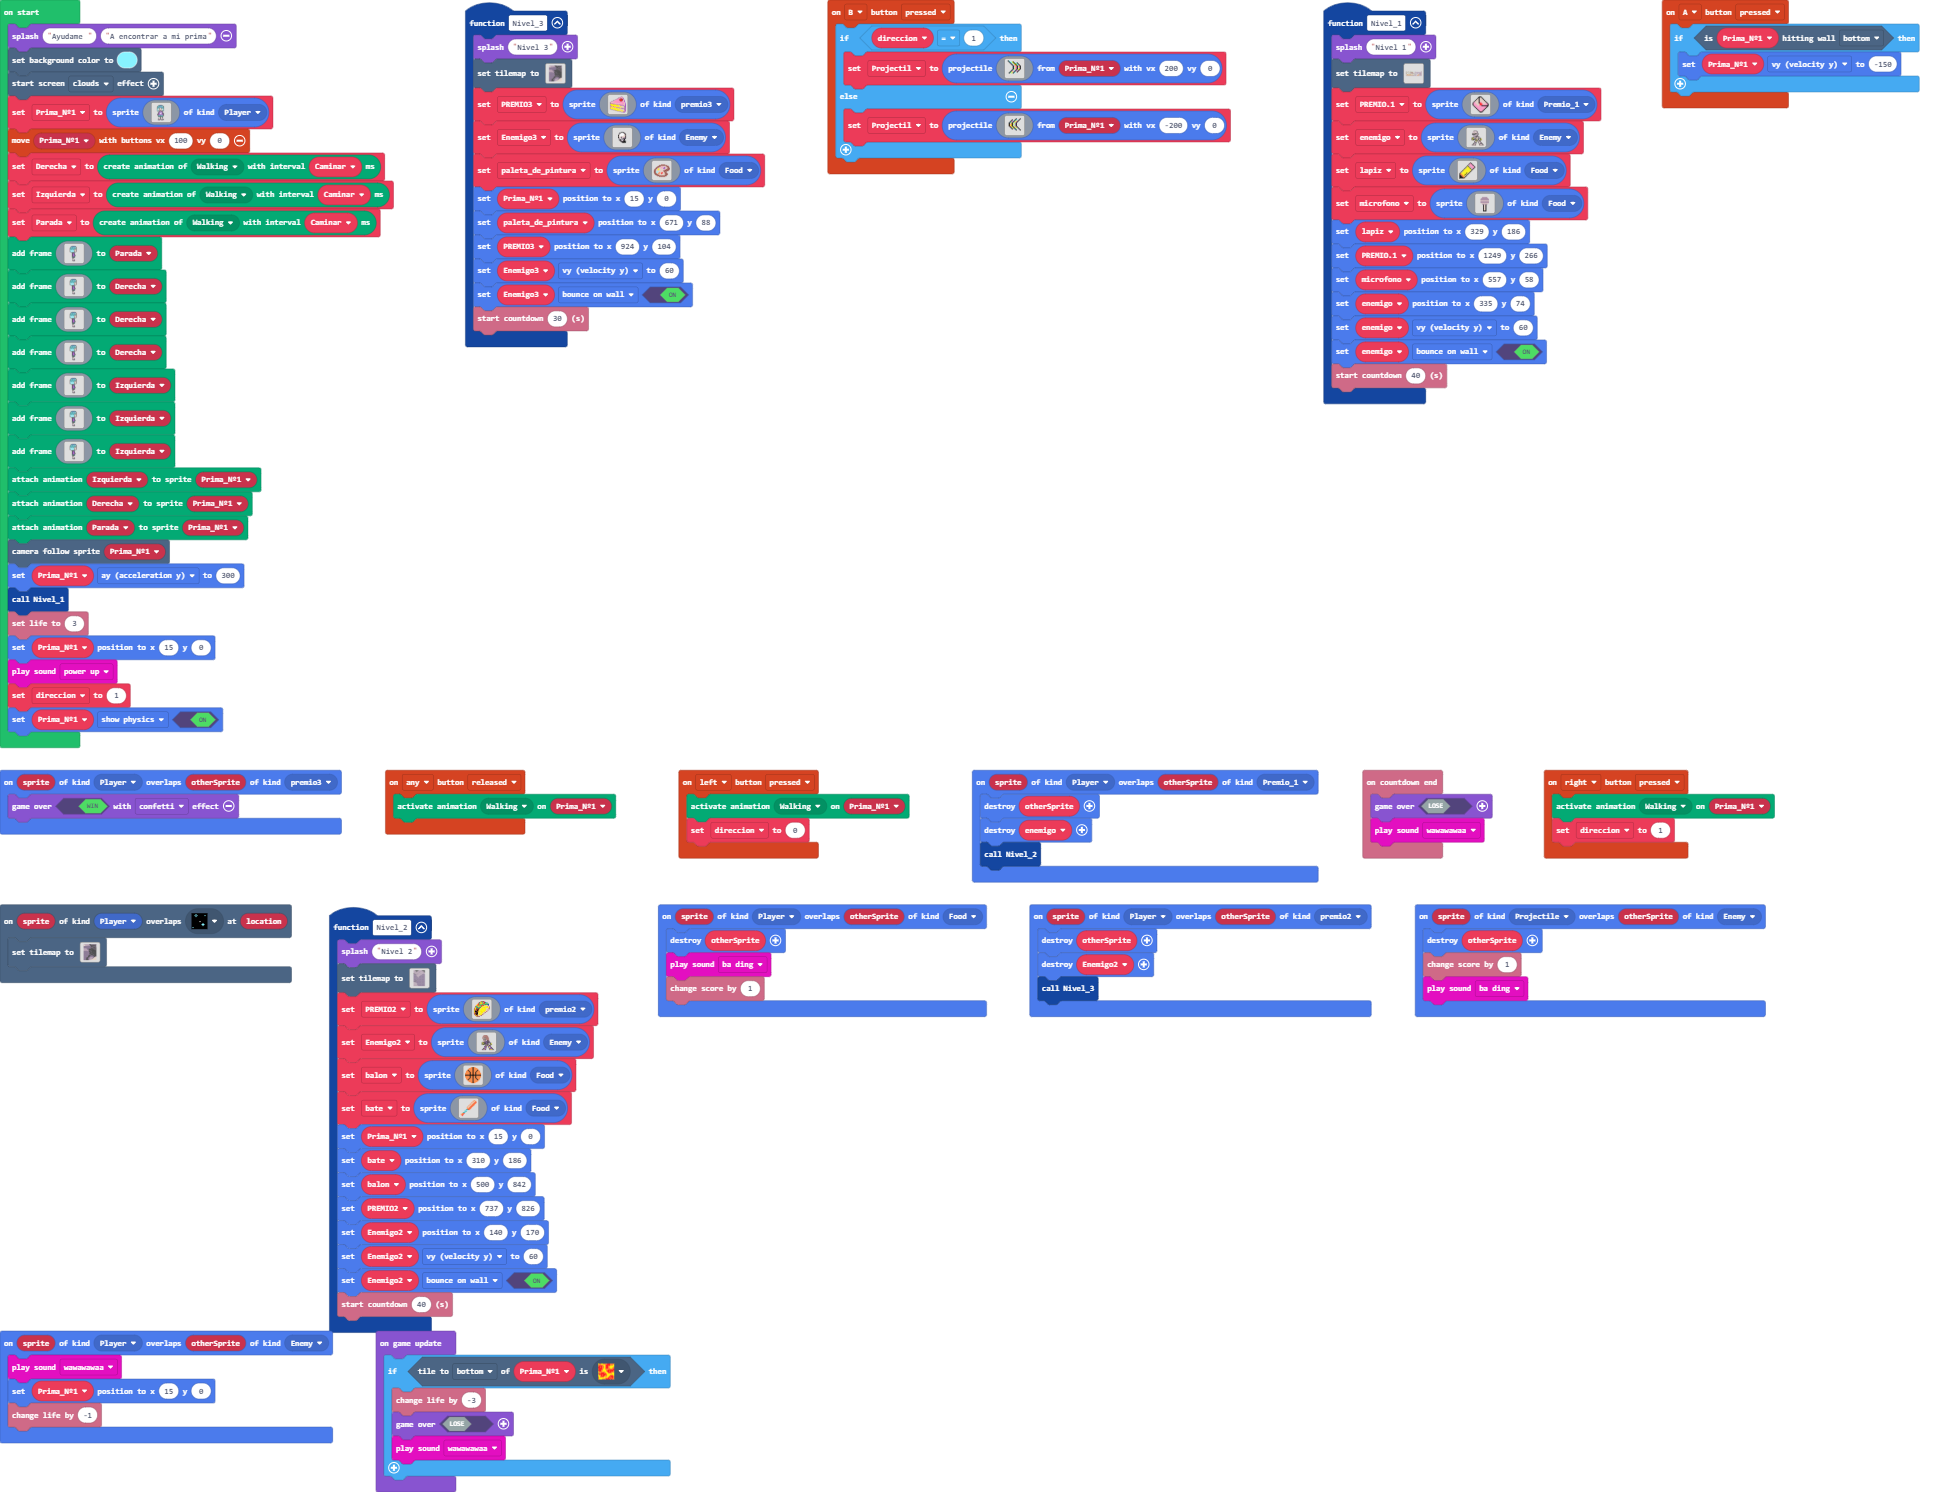
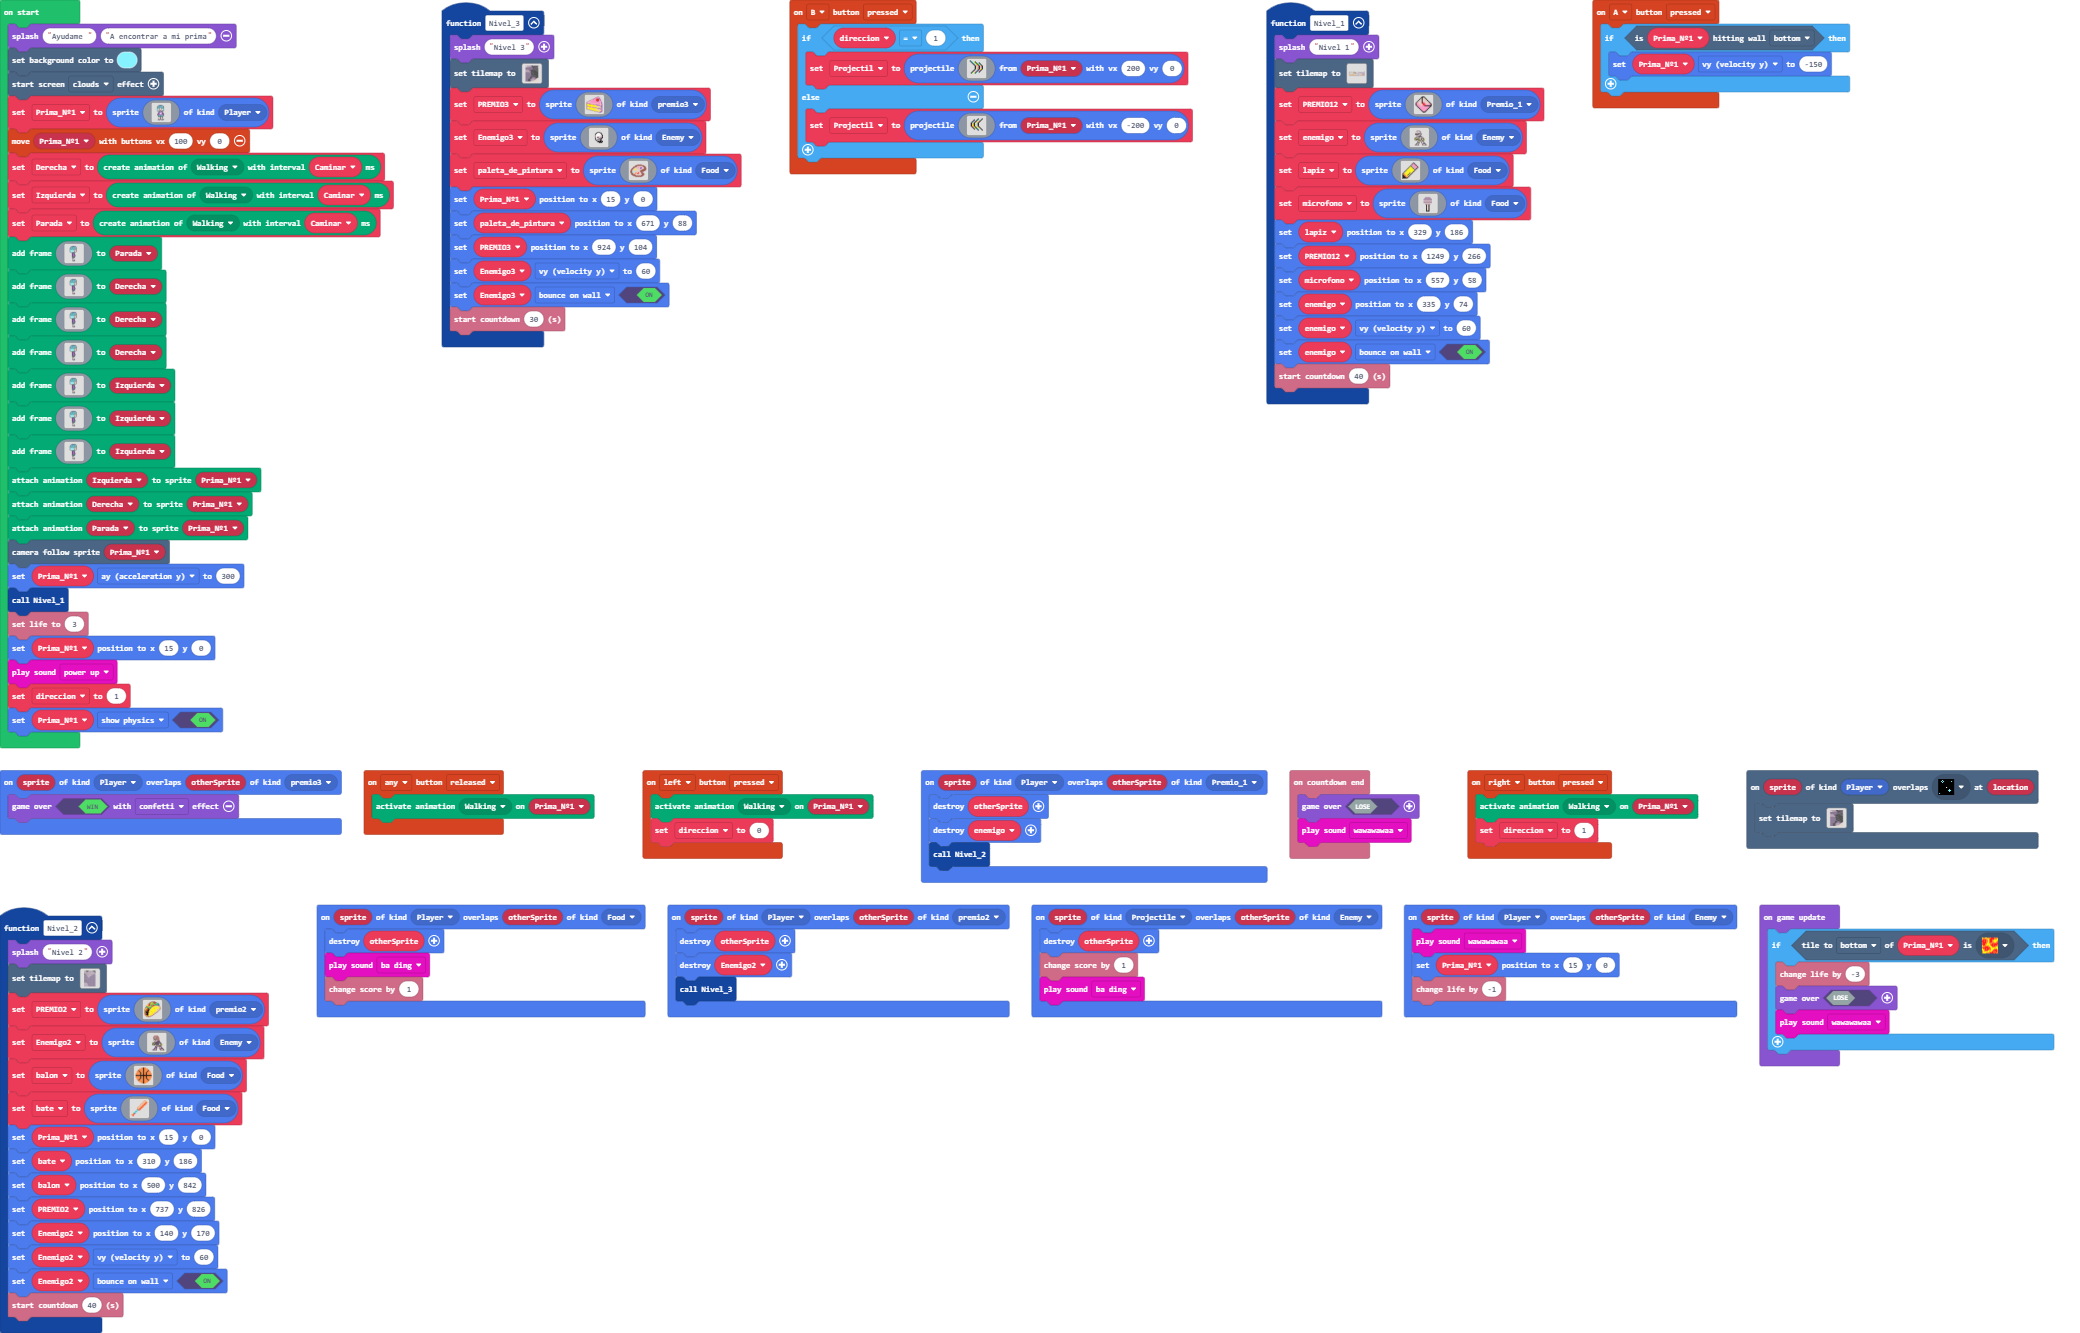
cambio alexia hoy

diff --git a/main.ts b/main.ts
@@ -232,7 +232,7 @@ function Nivel_1 () {
         2 2 2 2 2 2 2 2 2 2 2 2 2 2 2 2 2 2 2 2 2 2 2 2 2 2 2 2 2 2 2 2 2 2 2 2 2 2 2 2 2 2 2 2 2 2 2 2 2 2 2 2 2 2 2 2 2 2 2 2 2 . . . . . . . . . 2 2 2 2 2 2 2 2 2 2 2 2 2 2 2 2 2 2 2 2 
         2 2 2 2 2 2 2 2 2 2 2 2 2 2 2 2 2 2 2 2 2 2 2 2 2 2 2 2 2 2 2 2 2 2 2 2 2 2 2 2 2 2 2 2 2 2 2 2 2 2 2 2 2 2 2 2 2 2 2 2 2 2 2 2 2 2 2 2 2 2 2 2 2 2 2 2 2 2 2 2 2 2 2 2 2 2 2 2 2 2 
         `, [myTiles.transparency16,myTiles.tile12,myTiles.tile11,myTiles.tile2,myTiles.tile6,myTiles.tile10,myTiles.tile15,myTiles.tile19,myTiles.tile26,myTiles.tile28,myTiles.tile31,myTiles.tile14,myTiles.tile43,myTiles.tile17,myTiles.tile18,myTiles.tile20,myTiles.tile23,myTiles.tile24,myTiles.tile44,myTiles.tile9,sprites.dungeon.hazardLava1,myTiles.tile46,myTiles.tile48,myTiles.tile49], TileScale.Sixteen))
-    PREMIO1 = sprites.create(img`
+    PREMIO12 = sprites.create(img`
         . . . . . . . f f f . . . . . . . . 
         . . . . . . f f d d f . . . . . . . 
         . . . . . f d f d d d f . . . . . . 
@@ -347,7 +347,7 @@ function Nivel_1 () {
         . . . . . . f f f f . . . . . . 
         `, SpriteKind.Food)
     lapiz.setPosition(329, 186)
-    PREMIO1.setPosition(1249, 266)
+    PREMIO12.setPosition(1249, 266)
     microfono.setPosition(557, 58)
     enemigo.setPosition(335, 74)
     enemigo.vy = 60
@@ -383,7 +383,7 @@ controller.right.onEvent(ControllerButtonEvent.Pressed, function () {
     direccion = 1
 })
 scene.onOverlapTile(SpriteKind.Player, myTiles.tile43, function (sprite, location) {
[2 lines of base64/hex data omitted]
         2 2 2 2 2 2 2 2 2 2 2 2 2 2 2 2 2 2 2 2 2 2 2 2 2 2 2 2 2 2 2 2 2 2 2 2 2 2 2 2 
         2 . . . . . . . . . . . . . . . . . . . . . . . . . . . . . . . . . . . . . . 2 
         2 . . . . . . . . . . . . . . . . . . . . . . . . . . . . . . . . . . . . . . 2 
@@ -438,7 +438,7 @@ scene.onOverlapTile(SpriteKind.Player, myTiles.tile43, function (sprite, locatio
 })
 function Nivel_2 () {
     game.splash("Nivel 2")
-    tiles.setTilemap(tiles.createTilemap(hex`320046000606060606060202020202020202020202020202020202020101010101010101010101020202020202020202020202020202060606060606060602020202020202020202020202010101060606060606060606060601010102020202020202020202020206060606060606060602020202020202020202020106060606060606010101010101010101010102020202020202020202020606060606060606060202020202020202020101060606060601010106060606060606060606060104040202020202020202060606060606060606060202020202020201060404040404040404040404040404040404040404040404040202020202020206060606060606060606040404020202040404060606060106060606060606060606060606060606060601040402020202020606060606060606060606020404040404060606060101060606010106060606060606060606060606060601040102020202060606060606060606060606020202010606060606010606060606010606060606060606060606060606060104010202020206060606060606060606060602020106060606060106060606060606010606060606060606060606060606060402010202020606060606060606060606060201060606060601060606060606060601060606060606060606060606060606040106010202060606060606060606060606060106060606010606060303030303030301060606060606060606060606060604010606010206060606060606060606060606010606060601060606060606060606060601060606060606060606060606060401060601020303030303030303030306060606060606060106060606060606060606060106060606060606060606060606040601060102060406060606060606060606060606030303030303030306060606060606060106060606060606060606060604060106060102020606060606060606030606060606060106060606060606060606060606010606060606060606060606060406010606010202020202020606060606030306060606010606060606060606060606060603030303060606060606060606040601060601020202020202020606060606030606060601060606060606060606060606060601060606060606060606060604060106060105050505050505050206060603030606060106060606060606060606060606060601060606060606050505050405050505050505050505050505050206060603030306010606060606060606060606060606060106060606050505050505040505050505050505050505050505050206060606030601060606060606060606060606060606060606050505050505050504050505050505050505050505050505020201060603030303030303030606060606060606060606050505050505030303030405050505050505040404040404040404020106060606010606060606060606060606060606060505050505050505050505040505050505050505050505050505050505010606060601060606060606060606060606060505050505050505050505050504050505050505050505050505050505040502010606060106060606060606060606060605050505050505050505050505050405050505050505050505050505050504040404040606060106060606060606060606050404040404040404040404040404040505050505050505050505050505050505050106040606010606060606060606050404050505050505050505050505050504050505050505050505050505050505050505020104040401060606060606060404040505050505050505050505050707050405050505050505050505050505050505050505050106060601060606060604040505050505050505050707070707070504040505050707050505050505050505050505050504040406060601060606040405050505050505050707070707070705050405050505070705050505050505050404040404040402010606060601040405050505050505050507070707070705050505040505050707070505050505050504050505050505050502010606060404040505050505050707070707070705050505050505050505070707050505050505050505050505050505050505050506060604050505050707070707070707050505050505050505050707070705050404040405050505050505050505050505050506060405050507070707070707070705050505050505050507070707070505050505050505050505050505050404040405050505040505070707070707070707070505050505050505070707070707050505050505040404040404050504040405050505050504050507070707070707070707070705050505070707070707070705050505050505050505050505050405050505050505050405050707070707070707070707070707070707070707070707070505050505050505050505050504040505050505050505040505070707070707070707070707070707070707070707070707050505050505050505050505050404020206070707070404070707070707070707070707070707070707070707070707070705050404040505050505050505040402060707070704070707070707070707070707070707070707070707070707070707070505050505050505050505050504040607070707070407070707070707070707070707070707070707070707070707070707050505050505050505040404040406070707070707040707070707070707070707070707070707070707070707070707070705050505050505050504050505020607070707070704070707070707070707070707070707070707070707070707070707070505050505050507040505020206070707070707070407070707070707070707070707070707070707070404040404040407050505050505050404050202060707070707070707040707070707070707070707070707070707070707070707070707070705050505050504040405020207070707070704040407070707070707070707070707070707070707070707070707070707070505050504040404040502020707070707070707070707070707070707070707070707070707070707070707070707070707050504040404040404020207070707070707070707070707070707070707070707070707070707070707070707070707070705050505050505050402070707070404040407070707070707070707070707070707070707070707070707070707070707070505050505050504040207070707070707070707070707070707070707070707070707070707070707070707070707070707050505050505020402070707070707070707070707070707070707070707070707070707070707070707070707070707070704040404040404040207070707070707070707070707070707070707070707070707070707070707070707070707070707070202020202020202070707070707070707070707070707070707070707070707070707070707070707070707070707070707060606060606060204040407070707070707070707070707070707070707070707040707070707070707070707070707070706060606060606060707070404070707070707070707070707070707070707070404040404040404040404040404040404040606060606060606060606070704040404070707070707070707070707070404040404040404040707070707070707070407060606060606060606060606060707070404070707070707070707070404070707070707070707070707070707070707040706060606060606060606060606060707070704040707070707070707070707070707070707070707070707070707070704070606060606060606060606060606060707070707040407070707040707070707070707070707070707070707070707070407060606060606060606060606060606070707070707040407070707070707070707070707070707070707070707070707040706060606060606060606060606060606070707070707070404070707070707070707070707070707070707070707070704070606060606060606060606060606060607070707070707070407070707070707070707070707070707070707070707070407060606060606060606060606060606060707070707070707070407070707070707070707070707070707070707070707040706060606060606060606060606060606070707070707070707040707070707070707070707070707070707070707070704070606060606060606060606060606060607070707070707070704040707070707070707070707070707070707070707070407060606060606060606060606060606060606070707070707070707070707070707070707070707070707070707070707040706060606060606060606060606060606060607070707070707070707070707070707070707070707070707070707070704070606060606060606060606060606060606060607070707070707070707070707070707070707070707070707070707070407060606060606060606060606060606060606060607070707070707070707070707070707070707070707070704040404040704040404040404040404040404040404040404040404040404040404040404040404040404040404040404040407070707070606060606060606060606060606060607060606060707070707070707070707070707070707070707070707070707070707`, img`
+    tiles.setTilemap(tiles.createTilemap(hex`320046000606060606060202020202020202020202020202020202020101010101010101010101020202020202020202020202020202060606060606060602020202020202020202020202010101060606060606060606060601010102020202020202020202020206060606060606060602020202020202020202020106060606060606010101010101010101010102020202020202020202020606060606060606060202020202020202020101060606060601010106060606060606060606060104040202020202020202060606060606060606060202020202020201060404040404040404040404040404040404040404040404040202020202020206060606060606060606040404020202040404060606060106060606060606060606060606060606060601040402020202020606060606060606060606020404040404060606060101060606010106060606060606060606060606060601040102020202060606060606060606060606020202010606060606010606060606010606060606060606060606060606060104010202020206060606060606060606060602020106060606060106060606060606010606060606060606060606060606060402010202020606060606060606060606060201060606060601060606060606060601060606060606060606060606060606040106010202060606060606060606060606060106060606010606060303030303030301060606060606060606060606060604010606010206060606060606060606060606010606060601060606060606060606060601060606060606060606060606060401060601020303030303030303030306060606060606060106060606060606060606060106060606060606060606060606040601060102060406060606060606060606060606030303030303030306060606060606060106060606060606060606060604060106060102020606060606060606030606060606060106060606060606060606060606010606060606060606060606060406010606010202020202020606060606030306060606010606060606060606060606060603030303060606060606060606040601060601020202020202020606060606030606060601060606060606060606060606060601060606060606060606060604060106060105050505050505050206060603030606060106060606060606060606060606060601060606060606050505050405050505050505050505050505050206060603030306010606060606060606060606060606060106060606050505050505040505050505050505050505050505050206060606030601060606060606060606060606060606060606050505050505050504050505050505050505050505050505020201060603030303030303030606060606060606060606050505050505030303030405050505050505040404040404040404020106060606010606060606060606060606060606060505050505050505050505040505050505050505050505050505050505010606060601060606060606060606060606060505050505050505050505050504050505050505050505050505050505040502010606060106060606060606060606060605050505050505050505050505050405050505050505050505050505050504040404040606060106060606060606060606050404040404040404040404040404040505050505050505050505050505050505050106040606010606060606060606050404050505050505050505050505050504050505050505050505050505050505050505020104040401060606060606060404040505050505050505050505050707050405050505050505050505050505050505050505050106060601060606060604040505050505050505050707070707070504040505050707050505050505050505050505050504040406060601060606040405050505050505050707070707070705050405050505070705050505050505050404040404040402010606060601040405050505050505050507070707070705050505040505050707070505050505050504050505050505050502010606060404040505050505050707070707070705050505050505050505070707050505050505050505050505050505050505050506060604050505050707070707070707050505050505050505050707070705050404040405050505050505050505050505050506060405050507070707070707070705050505050505050507070707070505050505050505050505050505050404040405050505040505070707070707070707070505050505050505070707070707050505050505040404040404050504040405050505050504050507070707070707070707070705050505070707070707070705050505050505050505050505050405050505050505050405050707070707070707070707070707070707070707070707070505050505050505050505050504040505050505050505040505070707070707070707070707070707070707070707070707050505050505050505050505050404020206070707070404070707070707070707070707070707070707070707070707070705050404040505050505050505040402060707070704070707070707070707070707070707070707070707070707070707070505050505050505050505050504040607070707070407070707070707070707070707070707070707070707070707070707050505050505050505040404040406070707070707040707070707070707070707070707070707070707070707070707070705050505050505050504050505020607070707070704070707070707070707070707070707070707070707070707070707070505050505050507040505020206070707070707070407070707070707070707070707070707070707070404040404040407050505050505050404050202060707070707070707040707070707070707070707070707070707070707070707070707070705050505050504040405020207070707070704040407070707070707070707070707070707070707070707070707070707070505050504040404040502020707070707070707070707070707070707070707070707070707070707070707070707070707050504040404040404020207070707070707070707070707070707070707070707070707070707070707070707070707070705050505050505050402070707070404040407070707070707070707070707070707070707070707070707070707070707070505050505050504040207070707070707070707070707070707070707070707070707070707070707070707070707070707050505050505020402070707070707070707070707070707070707070707070707070707070707070707070707070707070704040404040404040207070707070707070707070707070707070707070707070707000707070707070707070707070707070202020202020202070707070707070707070707070707070707070707070707070707070707070707070707070707070707060606060606060204040407070707070707070707070707070707070707070707040707070707070707070707070707070706060606060606060707070404070707070707070707070707070707070707070404040404040404040404040404040404040606060606060606060606070704040404070707070707070707070707070404040404040404040707070707070707070407060606060606060606060606060707070404070707070707070707070404070707070707070707070707070707070707040706060606060606060606060606060707070704040707070707070707070707070707070707070707070707070707070704070606060606060606060606060606060707070707040407070707040707070707070707070707070707070707070707070407060606060606060606060606060606070707070707040407070707070707070707070707070707070707070707070707040706060606060606060606060606060606070707070707070404070707070707070707070707070707070707070707070704070606060606060606060606060606060607070707070707070407070707070707070707070707070707070707070707070407060606060606060606060606060606060707070707070707070407070707070707070707070707070707070707070707040706060606060606060606060606060606070707070707070707040707070707070707070707070707070707070707070704070606060606060606060606060606060607070707070707070704040707070707070707070707070707070707070707070407060606060606060606060606060606060606070707070707070707070707070707070707070707070707070707070707040706060606060606060606060606060606060607070707070707070707070707070707070707070707070707070707070704070606060606060606060606060606060606060607070707070707070707070707070707070707070707070707070707070407060606060606060606060606060606060606060607070707070707070707070707070707070707070707070704040404040704040404040404040404040404040404040404040404040404040404040404040404040404040404040404040407070707070606060606060606060606060606060607060606060707070707070707070707070707070707070707070707070707070707`, img`
         . . . . . . 2 2 2 2 2 2 2 2 2 2 2 2 2 2 2 2 2 2 2 2 2 2 2 2 2 2 2 2 2 2 2 2 2 2 2 2 2 2 2 2 2 2 2 2 
         . . . . . . . . . . . . . . . . . . . . . . . . . . . . . . . . . . . . . . . . . . . . . . . . 2 2 
         . . . . . . . . . . . . . . . . . . . . . . . . . . . . . . . . . . . . . . . . . . . . . . . . 2 2 
@@ -671,7 +671,7 @@ let PREMIO2: Sprite = null
 let microfono: Sprite = null
 let lapiz: Sprite = null
 let enemigo: Sprite = null
-let PREMIO1: Sprite = null
+let PREMIO12: Sprite = null
 let Projectil: Sprite = null
 let paleta_de_pintura: Sprite = null
 let Enemigo3: Sprite = null
